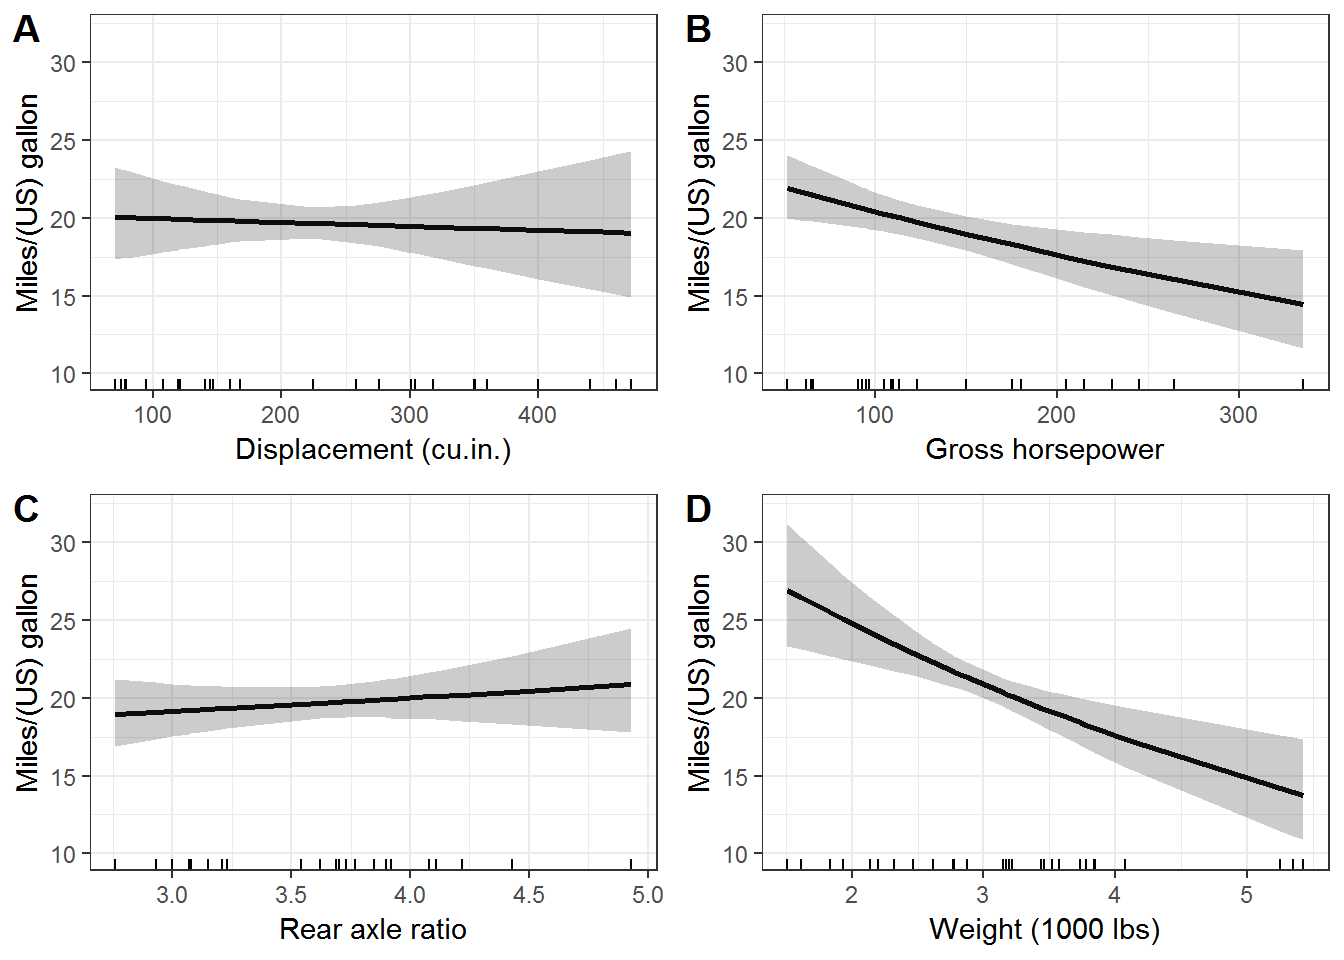
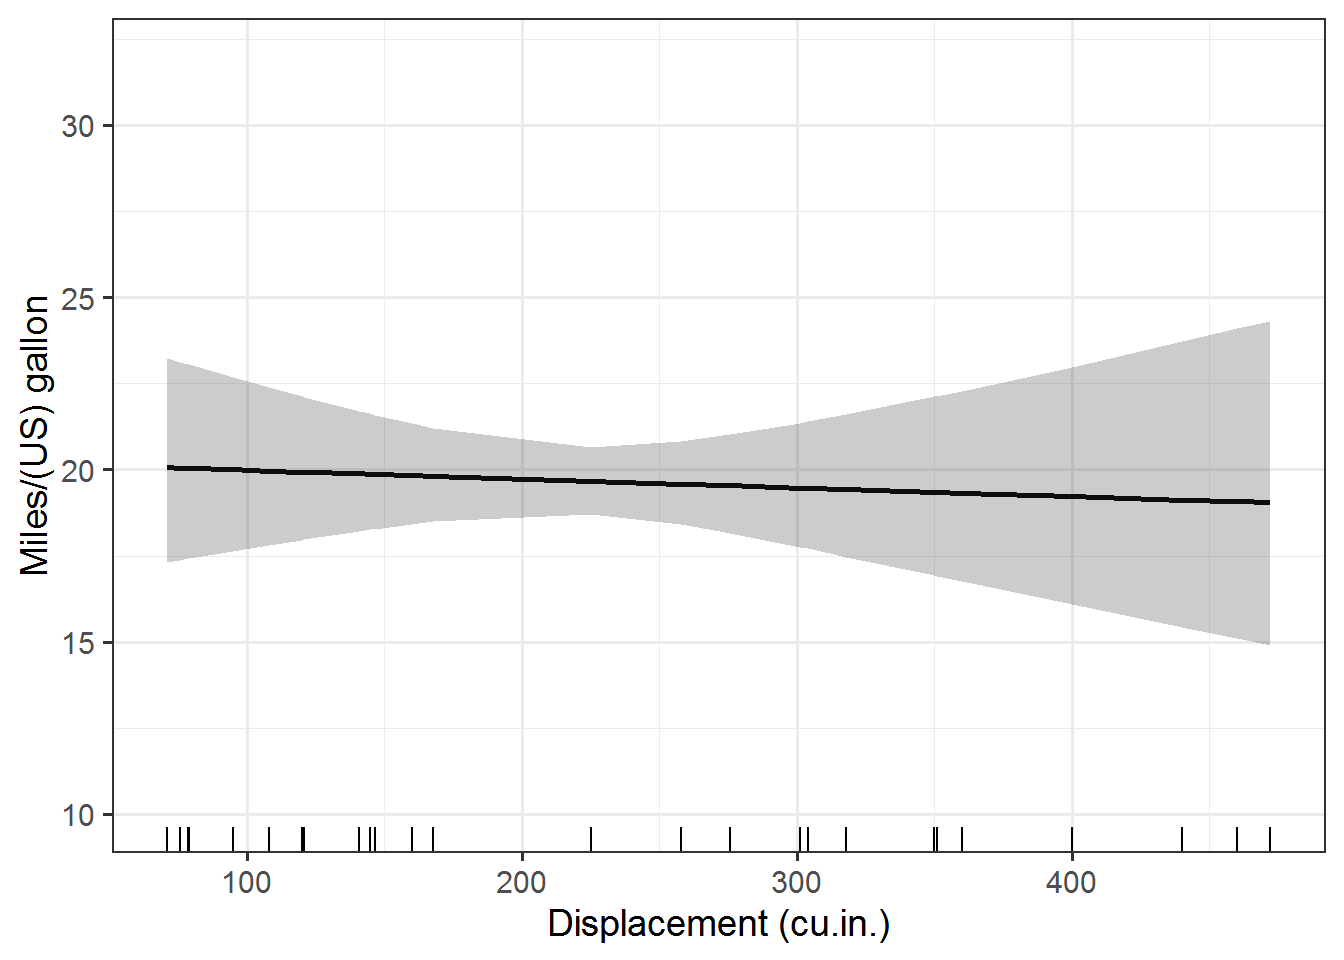
Edit/update many added variables post

diff --git a/content/post/2018-01-31-making-many-added-variable-plots-with-purrr-and-ggplot2.html b/content/post/2018-01-31-making-many-added-variable-plots-with-purrr-and-ggplot2.html
@@ -19,23 +19,23 @@ description: "In this post I show one approach for making added variable plots f
 <p>In both cases, the student had a linear model of some flavor that had several continuous explanatory variables. They wanted to plot the estimated relationship between each variable in the model and the response. This could easily lead to a lot of copying and pasting of code, since they want to do the same thing for every explanatory variable in the model. I worked up some example code showing an approach on how one might automate the task in R with functions and loops, and thought I’d generalize it for a blog post.</p>
 <div id="the-basics-of-added-variable-plots" class="section level1">
 <h1>The basics of added variable plots</h1>
-<p>Added variable plots (aka partial regression plots, adjusted variable plots, individual coefficient plots), are “results” plots. They are plots showing the estimated relationship between the response and an explanatory variable <em>after accounting for the other variables in the model</em>. If working with only two continuous explanatory variables, a 3-dimensional plot could be used in place of an added variable plot (if one likes those sorts of plots 😃). Once there are many variables in the model, though, we don’t have enough plotting dimensions to show how all the variables relate to the response simultaneously and so the added variable plot is an alternative.</p>
-<p>There are packages available for making added variable plots in R, such as the <strong>effects</strong> package. However, I tend to like a bit more flexibility, which I can get by making my own plots. To do this I need to extract the appropriate predictions and confidence intervals from the model.</p>
+<p>Added variable plots (aka partial regression plots, adjusted variable plots, individual coefficient plots), are “results” plots. They are plots showing the estimated relationship between the response and an explanatory variable <em>after accounting for the other variables in the model</em>. If working with only two continuous explanatory variables, a 3-dimensional plot could be used in place of an added variable plot (if one likes those sorts of plots 😃). Once there are many variables in the model, though, we don’t have enough plotting dimensions to show how all the variables relate to the response simultaneously and so we often use variable plots to show the fitted relationships.</p>
+<p>There are packages available for making added variable plots in R, such as <strong>effects</strong> and <strong>visreg</strong>. I like a bit more flexibility, which I get by making my own plots. To do this I need to extract the appropriate predictions and confidence intervals from the model.</p>
 <p>When making an added variable plot, it is fairly standard to make the predictions with all other variables fixed to their medians or means. I use medians today. Note that in my example I’m demonstrating code for the relatively simple case where there are no interactions between continuous variables in the model. Continuous-by-continuous interactions would involve a more complicated set-up for making plots.</p>
 </div>
 <div id="r-packages" class="section level1">
 <h1>R packages</h1>
 <p>The main workhorses I’m using today is <strong>purrr</strong> for looping through variables/lists and <strong>ggplot2</strong> for plotting. I also use helper functions from <strong>dplyr</strong> for data manipulation and <strong>broom</strong> for getting the model predictions and standard errors.</p>
-<pre class="r"><code>suppressPackageStartupMessages( library(dplyr) ) # v. 0.7.4
-library(ggplot2) # v. 2.2.1.9000
-library(purrr) # v. 0.2.4
-library(broom) # v. 0.4.3</code></pre>
+<pre class="r"><code>suppressPackageStartupMessages( library(dplyr) ) # v. 0.8.0
+library(ggplot2) # v. 3.1.0
+library(purrr) # v. 0.3.1
+library(broom) # v. 0.5.1</code></pre>
 </div>
 <div id="the-linear-model" class="section level1">
 <h1>The linear model</h1>
 <p>My example model is a linear model with a transformed response variable, fit using <code>lm()</code>. The process works the same for generalized linear models fit with <code>glm()</code> and would be very similar for other linear models (although you may have to calculate any standard errors manually).</p>
-<p>My linear model is based on five continuous variable from the <em>mtcars</em> dataset. (<em>I know, I know, that dataset has been incredibly overused. Seriously, though, I looked around a bit for another dataset to use that had many continuous explanatory variables in it (that wasn’t a time series) but I couldn’t come up with anything. If you know of one, let me know!</em>)</p>
-<p>The model I fit uses a log transformation for the response variable, so predictions and confidence interval limits will need to be back-transformed prior to plotting to show the relationship between the variables on the response on the original scale.</p>
+<p>My linear model is based on five continuous variable from the <em>mtcars</em> dataset.</p>
+<p>The model I fit uses a log transformation for the response variable, so predictions and confidence interval limits will need to be back-transformed prior to plotting to show the relationship between the variables on the response on the original scale. If you don’t have a transformation you can skip this step.</p>
 <pre class="r"><code>fit1 = lm( log(mpg) ~ disp + hp + drat + wt, data = mtcars)
 summary(fit1)</code></pre>
 <pre><code># 
@@ -63,13 +63,13 @@ summary(fit1)</code></pre>
 <div id="the-explanatory-variables" class="section level1">
 <h1>The explanatory variables</h1>
 <p>The approach I’m going to take is to loop through the explanatory variables in the model, create datasets for prediction, get the predictions, and make the plots. I’ll end with one added variable plot per variable.</p>
-<p>I could write out a vector of variable names to loop through manually, but I prefer to pull them out of the model. In the approach I use the first variable in the output is the response variable. I don’t need the response variable for what I’m doing, so I remove it.</p>
+<p>I could write out a vector of variable names to loop through manually, but I prefer to pull them out of the model. In the approach I use the first variable in the output is the response variable. I don’t need the response variable here, so I remove it with <code>-1</code>.</p>
 <pre class="r"><code>( mod_vars = all.vars( formula(fit1) )[-1] )</code></pre>
 <pre><code># [1] &quot;disp&quot; &quot;hp&quot;   &quot;drat&quot; &quot;wt&quot;</code></pre>
 </div>
 <div id="a-function-for-making-a-prediction-dataset" class="section level1">
-<h1>A function for making a prediction dataset</h1>
-<p>The first step in making an added variable plot manually is to create the dataset to use for making the predictions. This dataset will contain the observed data for the explanatory variable of interest (the “focus” variable) with all other variables fixed to their medians.</p>
+<h1><a href="#a-function-for-making-a-prediction-dataset">A function for making a prediction dataset</a></h1>
+<p>The first step in making an added variable plot manually is to create the dataset to use for calculating model predictions. This dataset will contain the observed data for the explanatory variable of interest (aka the <em>focus</em> variable) with all other variables fixed to their medians.</p>
 <p>Below is a function for doing this task. The function takes a dataset, a vector of all the variables in the model (as strings), and the name of the focus variable (as a string). The <strong>dplyr</strong> <code>*_at()</code> functions can take strings as input, so I use <code>summarise_at()</code> to calculate the medians of the non-focus variables. I bind the summary values to the focus variable data from the original dataset with <code>cbind()</code>, since <code>cbind()</code> allows recycling.</p>
 <pre class="r"><code>preddat_fun = function(data, allvars, var) {
      sums = summarise_at(data, 
@@ -89,8 +89,8 @@ summary(fit1)</code></pre>
 </div>
 <div id="making-a-prediction-dataset-for-each-variable" class="section level1">
 <h1>Making a prediction dataset for each variable</h1>
-<p>Now that I have a working function I can loop through each variable in the “mod_vars” vector and create a prediction dataset for each one. I’ll use <code>map()</code> from <strong>purrr</strong> for the loop. I use <code>set_names()</code> prior to <code>map()</code> so each element of the resulting list will be labeled with the name of the focus variable of that dataset. This helps me stay organized.</p>
-<p>The result is a list of prediction datasets.</p>
+<p>Now that I have a working function, I can loop through each variable in the <code>mod_vars</code> vector and create a prediction dataset for each one. I’ll use <code>map()</code> from <strong>purrr</strong> for the loop. I use <code>set_names()</code> prior to <code>map()</code> so each element of the resulting list will be labeled with the name of the focus variable of that dataset. This helps me stay organized.</p>
+<p>The result is a list of prediction datasets, one for each variable in my model.</p>
 <pre class="r"><code>pred_dats = mod_vars %&gt;%
      set_names() %&gt;%
      map( ~preddat_fun(mtcars, mod_vars, .x) )
@@ -117,11 +117,11 @@ str(pred_dats)</code></pre>
 #   ..$ hp  : num [1:32] 123 123 123 123 123 123 123 123 123 123 ...
 #   ..$ drat: num [1:32] 3.7 3.7 3.7 3.7 3.7 ...</code></pre>
 </div>
-<div id="calculate-model-predictions" class="section level1">
-<h1>Calculate model predictions</h1>
+<div id="calculate-model-predictions-for-each-variable" class="section level1">
+<h1>Calculate model predictions for each variable</h1>
 <p>Once the prediction datasets are created, the predictions can be calculated from the model and added to each dataset. I do this on the model scale, since I want to make confidence intervals with the standard errors prior to back-transforming.</p>
-<p>The <code>augment()</code> function from <strong>broom</strong> works with a variety of model objects, including <em>lm</em> and <em>glm</em> objects. It can take new datasets for prediction with the “newdata” argument, and I use it here to add both the prediction and the standard errors of the predictions to each dataset.</p>
-<p>I do this task by looping through the prediction datasets with <code>map()</code>, first to add the predictions via <code>augment()</code> and then to calculate the approximate confidence intervals and back-transform the predictions and confidence interval limits to the original data scale.</p>
+<p>The <code>augment()</code> function from <strong>broom</strong> works with a variety of model objects, including <em>lm</em> and <em>glm</em> objects. It can take new datasets for prediction via the “newdata” argument. I use it here to add both the prediction and the standard errors of the predictions to each dataset.</p>
+<p>I do this task by looping through the prediction datasets with <code>map()</code>, first to add the predictions via <code>augment()</code> and then to calculate approximate confidence intervals. Since my response was on the log scale, I also back-transform the predictions and confidence interval limits to the original data scale. This step isn’t needed for a model without a transformation or link function.</p>
 <pre class="r"><code>preds = pred_dats %&gt;%
      map(~augment(fit1, newdata = .x) ) %&gt;%
      map(~mutate(.x, 
@@ -130,7 +130,7 @@ str(pred_dats)</code></pre>
                  pred = exp(.fitted) ) )</code></pre>
 <p>Here is what the structure of the list elements look like now (showing only the first list element).</p>
 <pre class="r"><code>str(preds$disp)</code></pre>
-<pre><code># &#39;data.frame&#39;: 32 obs. of  10 variables:
+<pre><code># Classes &#39;tbl_df&#39;, &#39;tbl&#39; and &#39;data.frame&#39;: 32 obs. of  10 variables:
 #  $ .rownames: chr  &quot;Mazda RX4&quot; &quot;Mazda RX4 Wag&quot; &quot;Datsun 710&quot; &quot;Hornet 4 Drive&quot; ...
 #  $ disp     : num  160 160 108 258 360 ...
 #  $ hp       : num  123 123 123 123 123 123 123 123 123 123 ...
@@ -142,53 +142,67 @@ str(pred_dats)</code></pre>
 #  $ upper    : num  21.3 21.3 22.4 20.8 22.3 ...
 #  $ pred     : num  19.8 19.8 20 19.6 19.3 ...</code></pre>
 </div>
+<div id="making-one-added-variable-plot" class="section level1">
+<h1><a href="#making-one-added-variable-plot">Making one added variable plot</a></h1>
+<p>With the predictions successfully made it’s time for plotting.</p>
+<p>Here is the format of the plots I will be making, plotting the fitted line and showing the data on the x axis with a rug plot. I make the output black and white with larger text via <code>theme_bw(base_size = 14)</code> and clean up the axis labels via <code>labs()</code>.</p>
+<pre class="r"><code>ggplot(data = preds$disp, aes(x = disp, y = pred) ) +
+     geom_line(size = 1) +
+     geom_ribbon(aes(ymin = lower, ymax = upper), alpha = .25) +
+     geom_rug(sides = &quot;b&quot;) +
+     theme_bw(base_size = 14) +
+     labs(x = &quot;Displacement (cu.in.)&quot;,
+          y = &quot;Miles/(US) gallon&quot;) +
+     ylim(10, 32)</code></pre>
+<p><img src="/post/2018-01-31-making-many-added-variable-plots-with-purrr-and-ggplot2_files/figure-html/unnamed-chunk-9-1.png" width="672" /></p>
+</div>
 <div id="a-function-for-plotting" class="section level1">
-<h1>A function for plotting</h1>
-<p>With the predictions successfully made it’s time for plotting. If each plot needs to look really different, the plots could be made individually. However, if they will all have a similar look then it makes sense to create a function for making the plots.</p>
+<h1><a href="#a-function-for-plotting">A function for plotting</a></h1>
+<p>Once I’ve worked out what one plot should look like I can make function for making plots. This is a reasonable approach for when making many plots that all look basically the same.</p>
 <p>One problem I anticipated running into when automating the plotting is with the x axis labels. The variable names in the dataset aren’t very nice looking. If I want the x axis labels to be more polished in the plots I’ll need replacement labels. I decided to make a vector of nicer labels, one label for each focus variable. This vector needs to be the same length and in the same order as the vector of variable names and the list of prediction datasets so each plot gets the correct new axis label.</p>
 <pre class="r"><code>xlabs = c(&quot;Displacement (cu.in.)&quot;, &quot;Gross horsepower&quot;,
           &quot;Rear axle ratio&quot;, &quot;Weight (1000 lbs)&quot;)</code></pre>
-<p>My plotting function has three arguments: the dataset to plot, the explanatory variable to plot on the x axis (as a string), and label for the x axis (also as a string).</p>
+<p>My plotting function has three arguments: the dataset to plot, the explanatory variable to plot on the x axis (as a string), and label for the x axis (also as a string). Your variable names for <code>x</code> must by <a href="https://stat.ethz.ch/R-manual/R-devel/library/base/html/make.names.html">syntactically valid</a> to use the <code>aes_string()</code> approach I’m demonstrating here.</p>
 <pre class="r"><code>pred_plot = function(data, variable, xlab) {
      ggplot(data, aes_string(x = variable, y = &quot;pred&quot;) ) +
           geom_line(size = 1) +
           geom_ribbon(aes(ymin = lower, ymax = upper), alpha = .25) +
           geom_rug(sides = &quot;b&quot;) +
-          theme_bw() +
+          theme_bw(base_size = 14) +
           labs(x = xlab,
                y = &quot;Miles/(US) gallon&quot;) +
           ylim(10, 32)
 }</code></pre>
-<p>Here is the plotting function in action. I plot the “disp” variable, which is the first element of the three lists (prediction datasets, variables, axis labels).</p>
+<p>Here is the plotting function in action. I plot the “disp” variable, which is the first element of the three lists (prediction datasets, variables, axis labels). This looks just like the plot I manually made above.</p>
 <pre class="r"><code>pred_plot(preds[[1]], mod_vars[1], xlabs[1])</code></pre>
-<p><img src="/post/2018-01-31-making-many-added-variable-plots-with-purrr-and-ggplot2_files/figure-html/unnamed-chunk-11-1.png" width="672" /></p>
+<p><img src="/post/2018-01-31-making-many-added-variable-plots-with-purrr-and-ggplot2_files/figure-html/unnamed-chunk-12-1.png" width="672" /></p>
 </div>
 <div id="making-all-the-plots" class="section level1">
 <h1>Making all the plots</h1>
-<p>The very last step is to make all the plots. Because we want to loop through three different lists (the prediction datasets, the variables, and the axis labels), this can be a done via <code>pmap()</code> from <strong>purrr</strong>. <code>pmap()</code> loops through all three lists simultaneously.</p>
+<p>The very last step is to make all the plots. Because I want to loop through three different lists (the prediction datasets, the variables, and the axis labels), this can be a done via <code>pmap()</code> from <strong>purrr</strong>. The <code>pmap()</code> function loops through all three lists simultaneously.</p>
 <pre class="r"><code>all_plots = pmap( list(preds, mod_vars, xlabs), pred_plot)
 all_plots</code></pre>
 <pre><code># $disp</code></pre>
-<p><img src="/post/2018-01-31-making-many-added-variable-plots-with-purrr-and-ggplot2_files/figure-html/unnamed-chunk-12-1.png" width="672" /></p>
+<p><img src="/post/2018-01-31-making-many-added-variable-plots-with-purrr-and-ggplot2_files/figure-html/unnamed-chunk-13-1.png" width="672" /></p>
 <pre><code># 
 # $hp</code></pre>
-<p><img src="/post/2018-01-31-making-many-added-variable-plots-with-purrr-and-ggplot2_files/figure-html/unnamed-chunk-12-2.png" width="672" /></p>
+<p><img src="/post/2018-01-31-making-many-added-variable-plots-with-purrr-and-ggplot2_files/figure-html/unnamed-chunk-13-2.png" width="672" /></p>
 <pre><code># 
 # $drat</code></pre>
-<p><img src="/post/2018-01-31-making-many-added-variable-plots-with-purrr-and-ggplot2_files/figure-html/unnamed-chunk-12-3.png" width="672" /></p>
+<p><img src="/post/2018-01-31-making-many-added-variable-plots-with-purrr-and-ggplot2_files/figure-html/unnamed-chunk-13-3.png" width="672" /></p>
 <pre><code># 
 # $wt</code></pre>
-<p><img src="/post/2018-01-31-making-many-added-variable-plots-with-purrr-and-ggplot2_files/figure-html/unnamed-chunk-12-4.png" width="672" /></p>
+<p><img src="/post/2018-01-31-making-many-added-variable-plots-with-purrr-and-ggplot2_files/figure-html/unnamed-chunk-13-4.png" width="672" /></p>
 <div id="using-the-plots" class="section level2">
 <h2>Using the plots</h2>
-<p>The plots can be printed all at once as above or individually using indexes or list names, using code such as <code>all_plots[[1]]</code> or <code>all_plots$disp</code>. Plots can also be saved for use outside of R; for saving individual plots you might use a <code>walk()</code> loop.</p>
+<p>The plots can be printed all at once as above or individually using indexes or list names, using code such as <code>all_plots[[1]]</code> or <code>all_plots$disp</code>. Plots can also be saved for use outside of R. I show some examples of how to do this in a <a href="https://aosmith.rbind.io/2018/08/20/automating-exploratory-plots/#saving-the-plots">different post</a>.</p>
 <p>It might be nice to combine these individual plots into a single multi-plot. A faceted plot would be an option, but the approach I’ve done here in its current form isn’t a great one for faceting (although I’m sure it could be modified with that in mind).</p>
-<p>The individual plots can be combined into a single figure via <strong>cowplot</strong> functions, though, without too much trouble. Note that <strong>cowplot</strong> is opinionated about the theme, so I use it without loading it.</p>
+<p>The individual plots can be combined into a single figure via function from the <strong>cowplot</strong> package, though, without too much trouble. Note that <strong>cowplot</strong> was opinionated about the theme in the past, which is why I use it without loading it here.</p>
 <p>The <code>plot_grid()</code> function can take a list of plots, which is what I have. It has a variety of options you might want to explore for getting the plots stitched together nicely.</p>
 <pre class="r"><code>cowplot::plot_grid(plotlist = all_plots,
           labels = &quot;AUTO&quot;,
           align = &quot;hv&quot;)</code></pre>
-<p><img src="/post/2018-01-31-making-many-added-variable-plots-with-purrr-and-ggplot2_files/figure-html/unnamed-chunk-13-1.png" width="672" /></p>
+<p><img src="/post/2018-01-31-making-many-added-variable-plots-with-purrr-and-ggplot2_files/figure-html/unnamed-chunk-14-1.png" width="672" /></p>
 <p><strong>Addendum:</strong> Package <strong>rms</strong> makes added variable plots via <strong>ggplot2</strong> and <strong>plotly</strong> along with simultaneous confidence bands for any model type the package works with. That includes linear models and generalized linear models excluding the negative binomial family. This may be a useful place to start if you are working with these kinds of models.</p>
 </div>
 </div>
